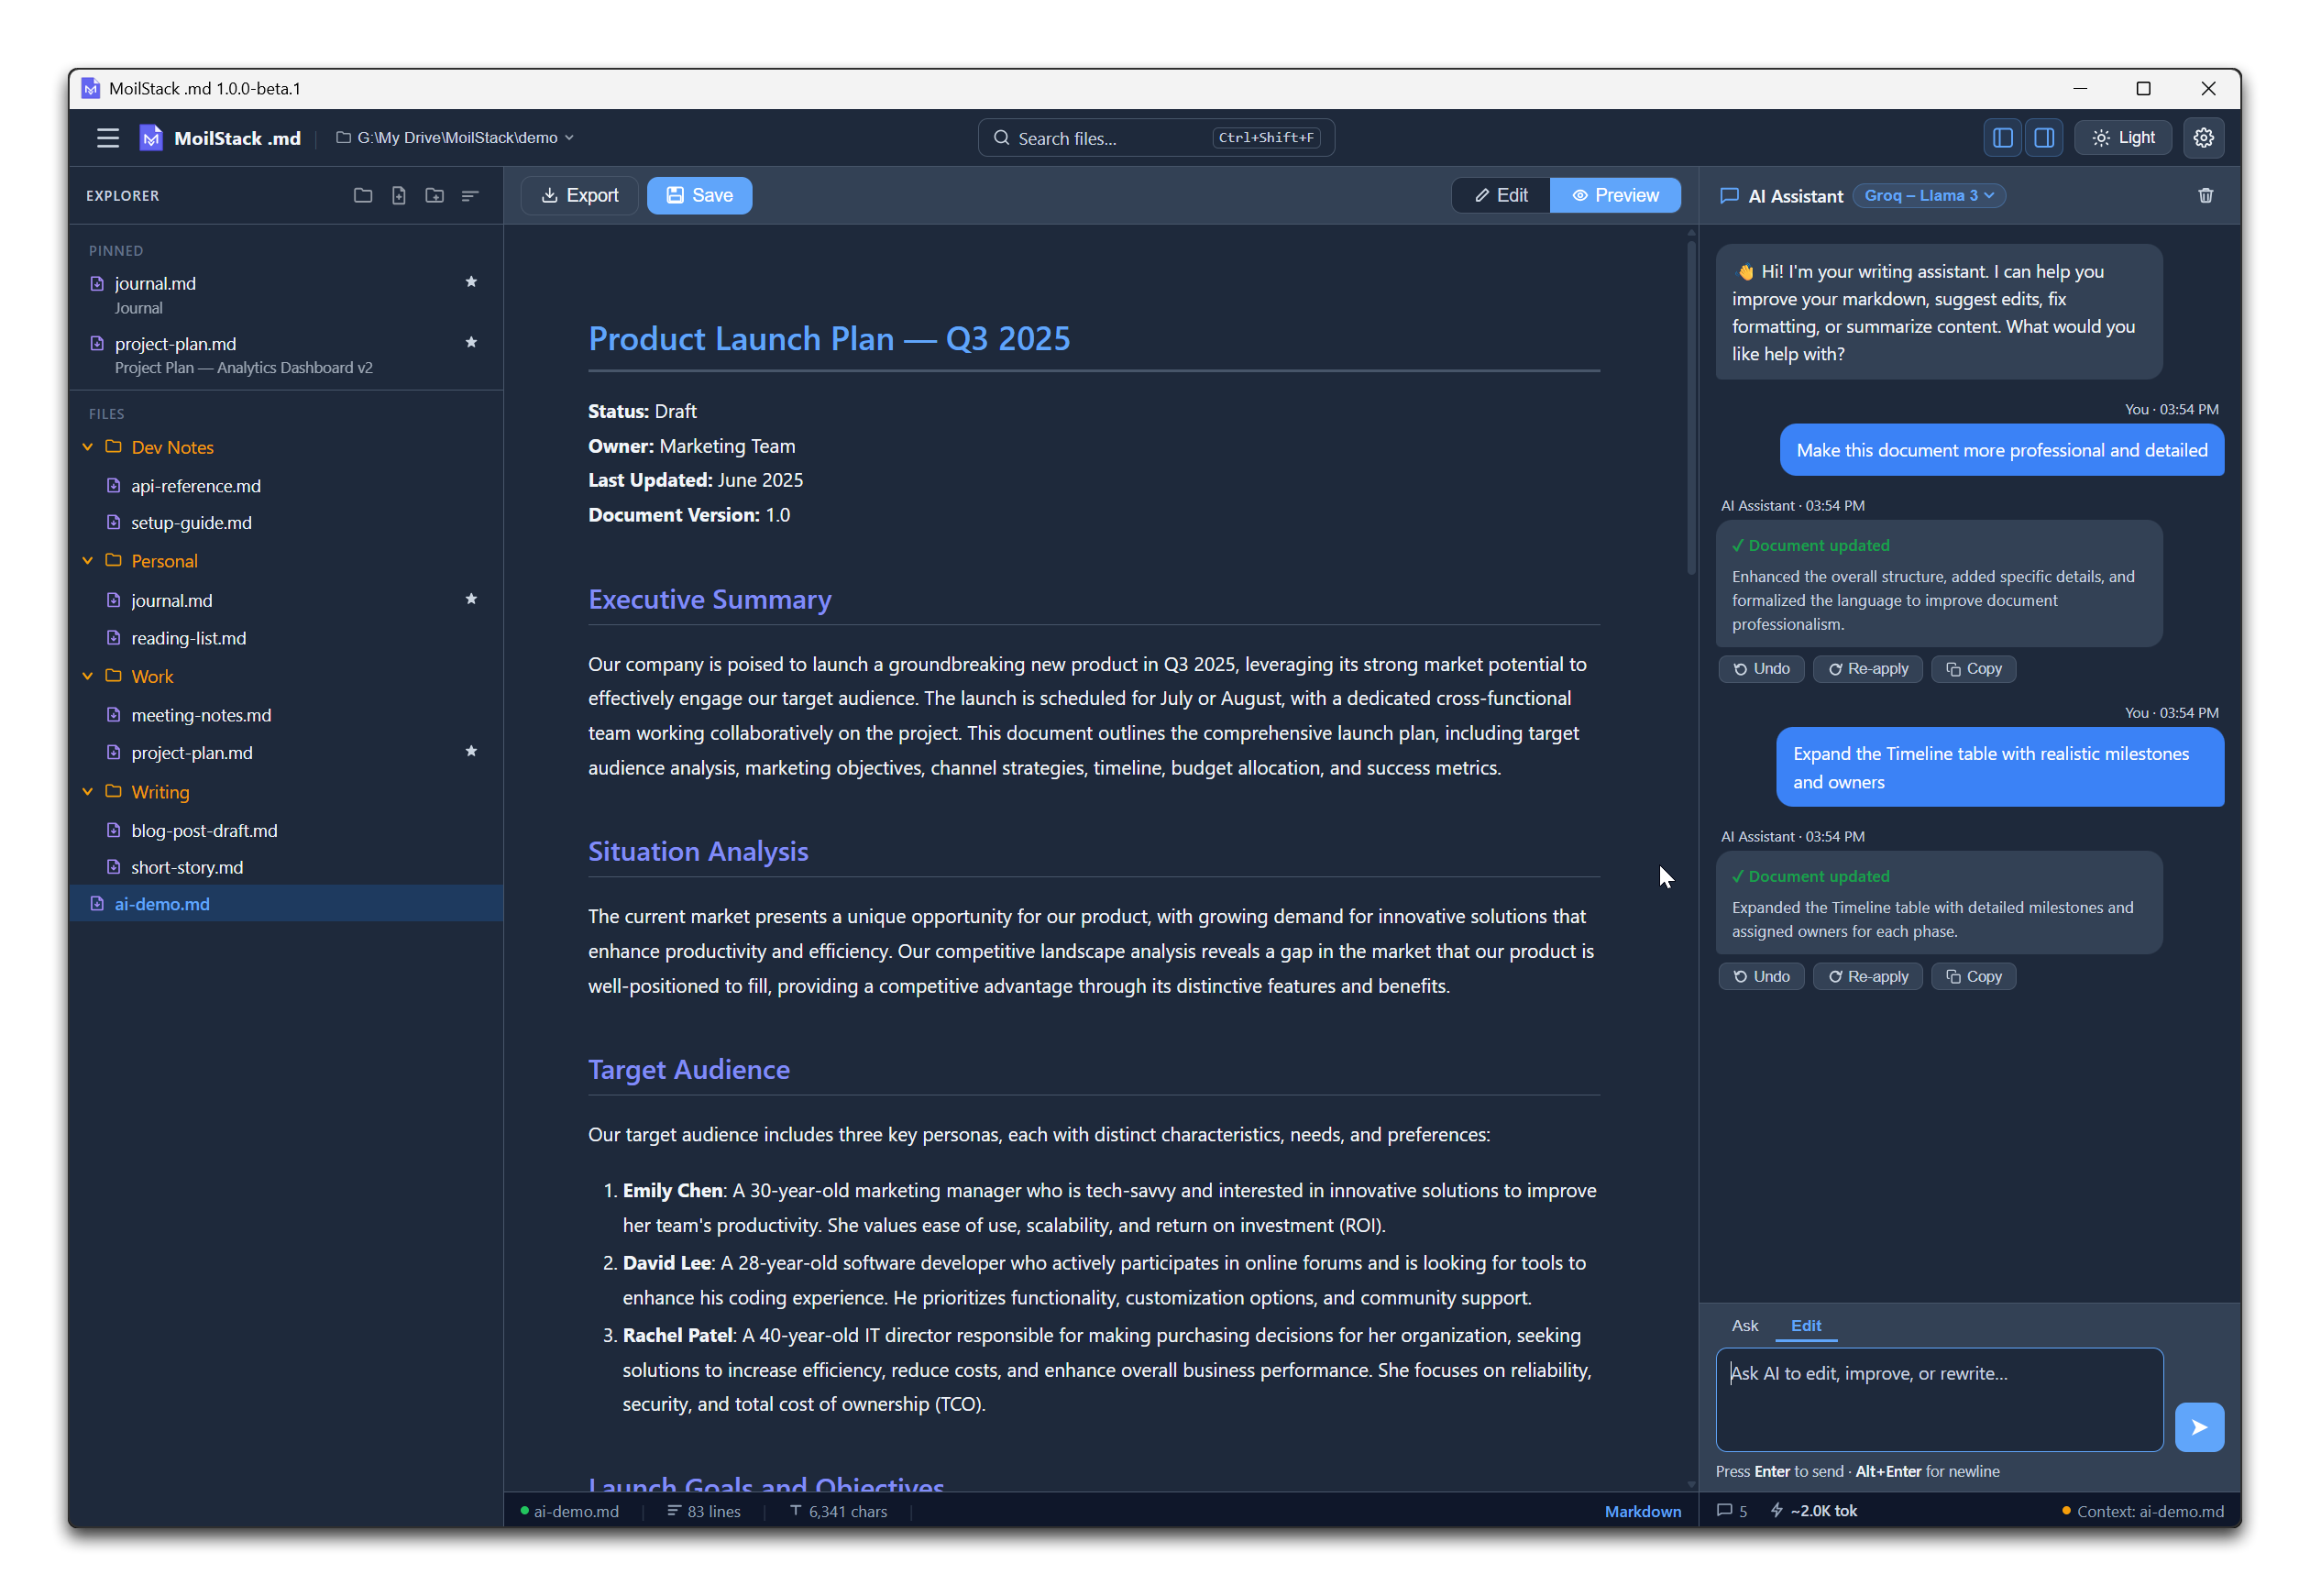
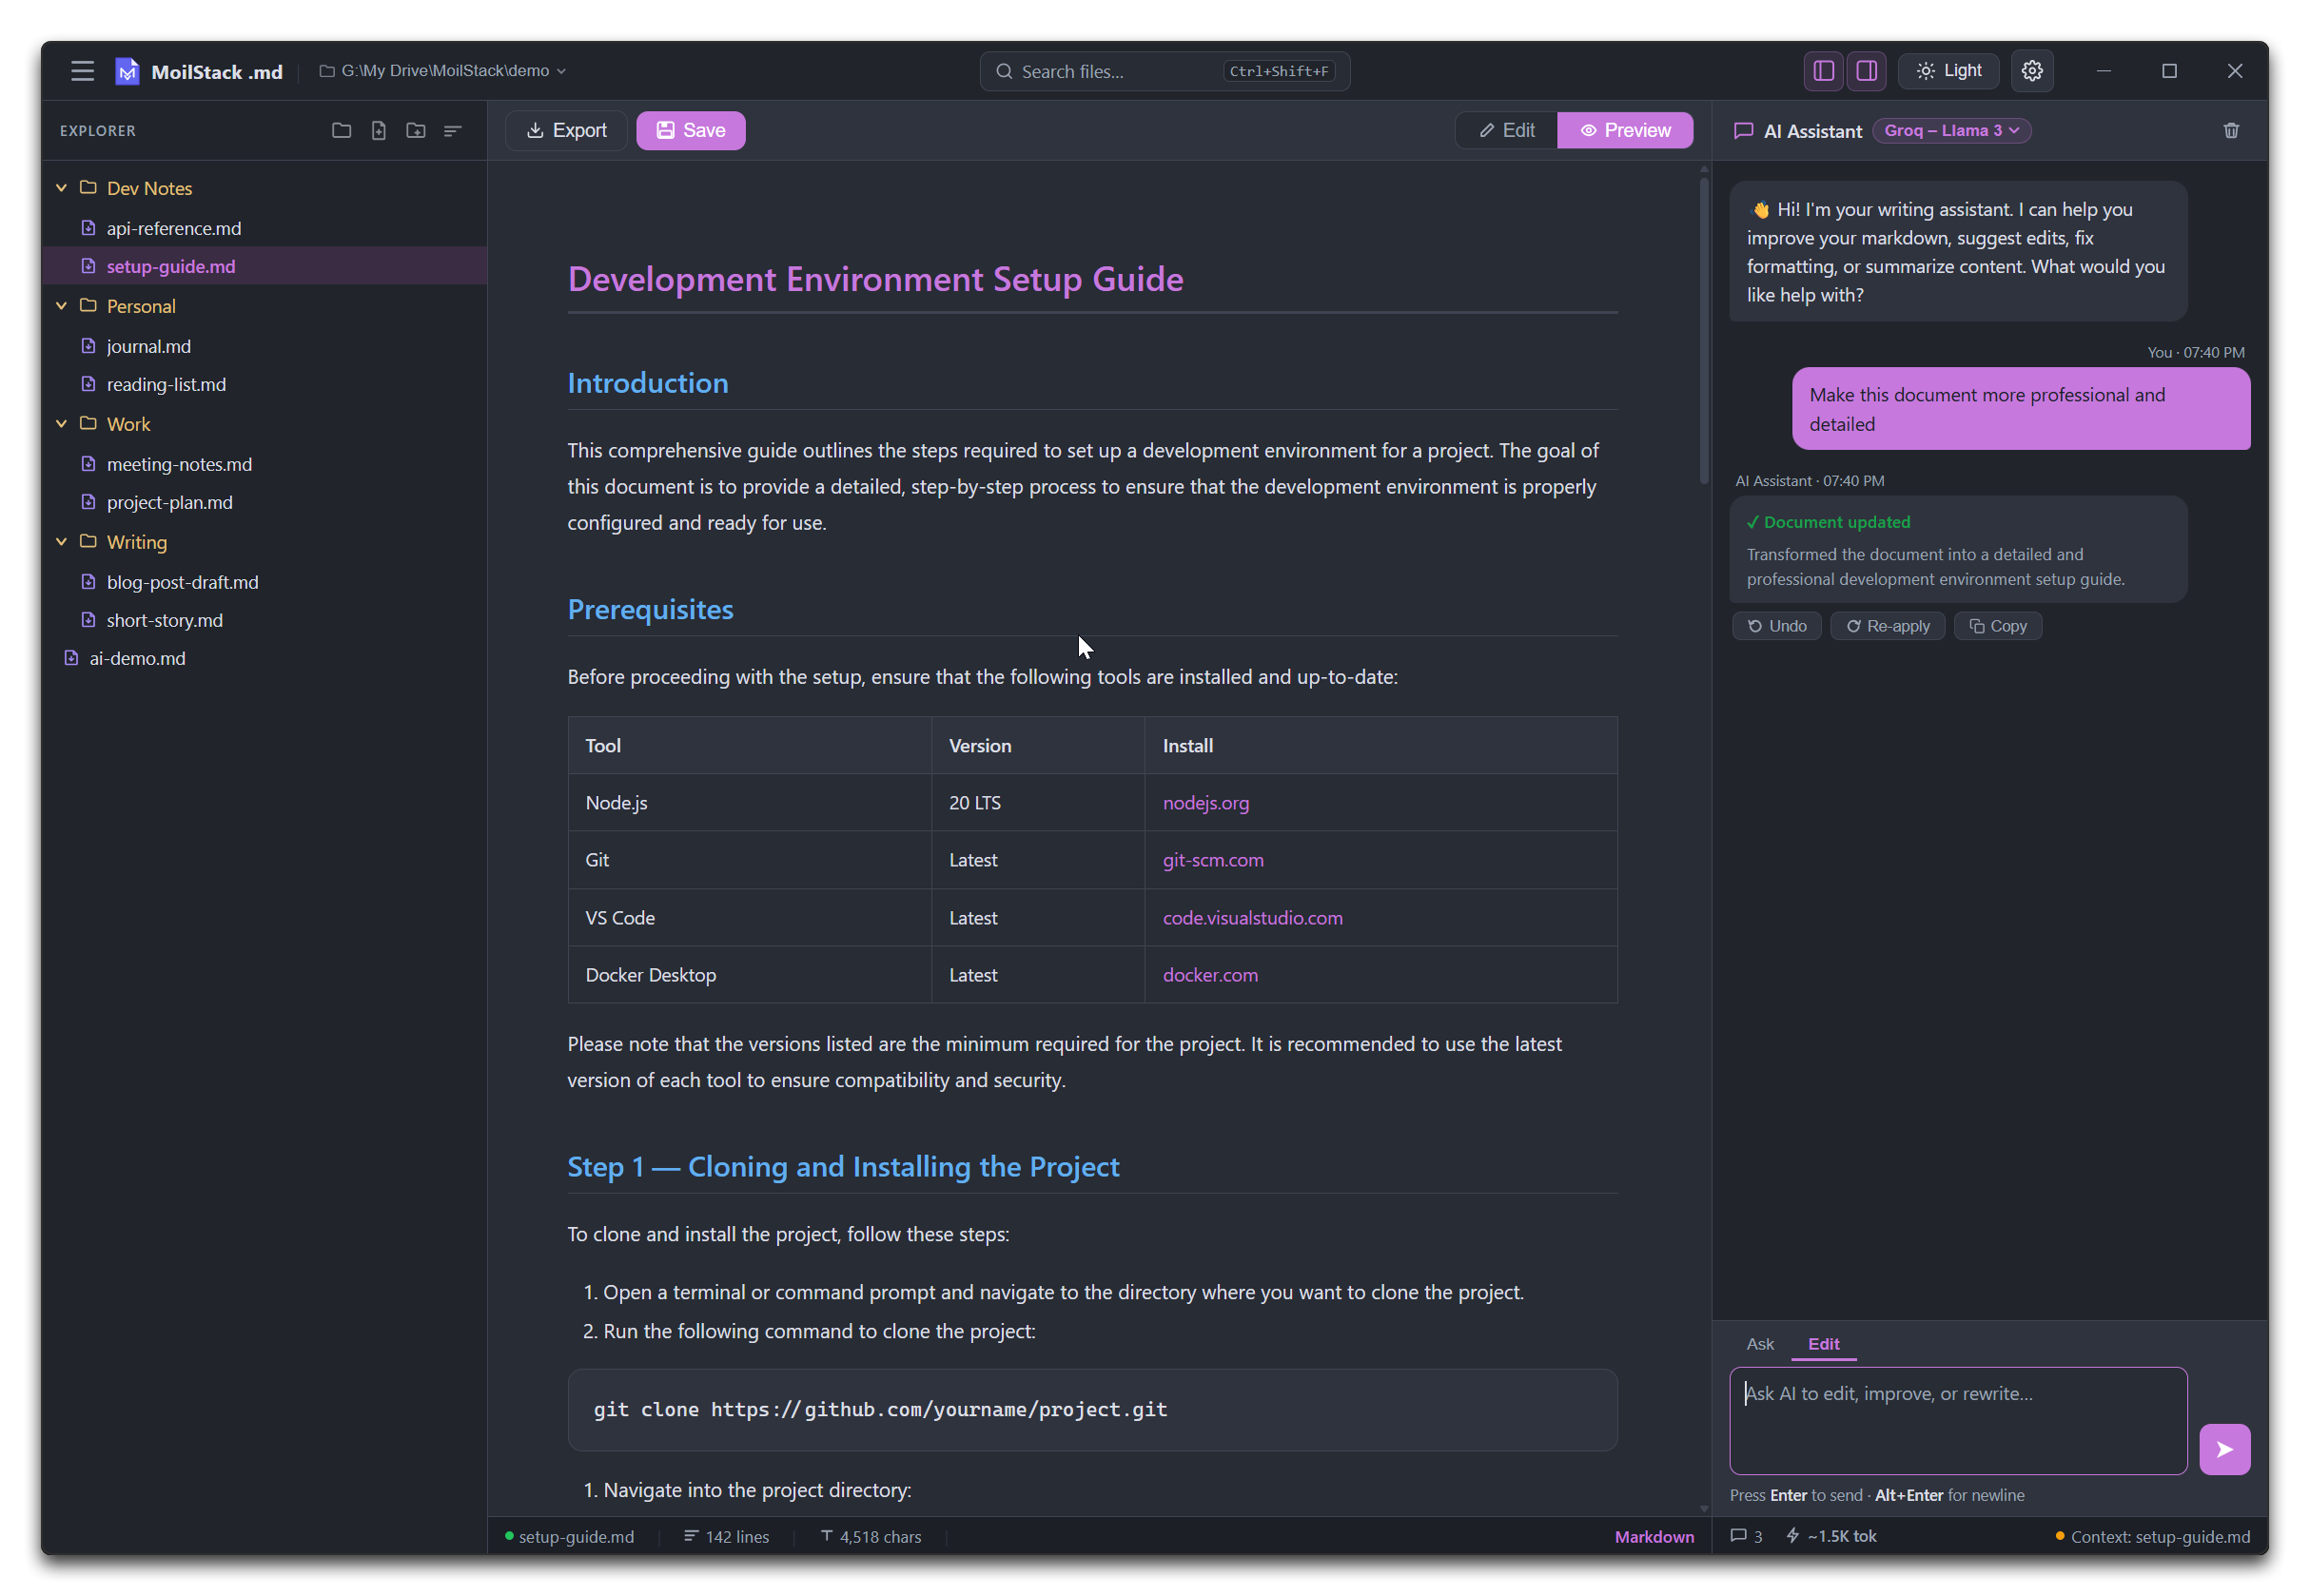
Release v1.0.0-beta.2
Bump version to 1.0.0-beta.2 with updated documentation, screenshots, and changelog. Updated publisher name in package configuration.

Changed region(s): [[0.0, 0.0, 0.9885, 0.9917], [0.2471, 0.6508, 0.6796, 0.8987], [0.2471, 0.3719, 0.6796, 0.6198]]

diff --git a/CHANGELOG.md b/CHANGELOG.md
@@ -4,12 +4,12 @@ All notable new features and critical fixes for MoilStack .md.
 
 ---
 
-## [Unreleased]
+## [1.0.0-beta.2] - 2026-07-05
 
 ### Changed
-- **Custom title bar** — the native OS title bar is replaced by a fully custom frameless title bar that inherits the app's theme color (`--sidebar-bg`); minimize, maximize/restore, and close window-control buttons are now rendered in-app at the right edge of the header, with a red hover on the close button (Windows-style)
-- **Dark theme — One Half Dark Amethyst** — the dark theme is redesigned around the One Half Dark palette: charcoal `#282c34` background (replacing slate `#1e293b`), warm light-gray `#dcdfe4` text, and violet `#c678dd` as the primary accent; heading colors in both the editor and preview now follow the full One Half Dark spectrum (purple H1, blue H2, cyan H3, green H4, yellow H5, red H6); folder icons updated to gold `#e5c07b`
-- **Recent folders dropdown readability** — each folder entry now has more vertical breathing room (item padding `6px` → `9px`, name-to-path gap `1px` → `4px`), larger fonts (folder name `12.5px` → `13px`, path `10.5px` → `11.5px`), a thin divider line between entries, and a slightly wider dropdown (`260px` → `290px` minimum width)
+- **Custom title bar** — the app now has its own title bar that matches the app's theme, with minimize, maximize, and close buttons built into the header
+- **Dark theme — One Half Dark Amethyst** — the dark theme has been refreshed with a new color palette: deeper charcoal background, warm light-gray text, and a violet accent color; headings in the editor and preview each have their own distinct color
+- **Recent folders dropdown** — the recent folders list is easier to read, with more spacing between entries, larger text, and a slightly wider dropdown
 
 ---
 

diff --git a/README.md b/README.md
@@ -37,7 +37,8 @@ Pre-built installers are available on the [Releases page](https://github.com/moi
 - **Configurable editor** — font size and font family settings
 
 ---
-
+## Screens
+![AI assistant editing](assets/screenshot-preview.png)
 ![AI assistant editing](assets/screenshot-ai-edit.png)
 ![Table builder](assets/screenshot-table-builder.png)
 